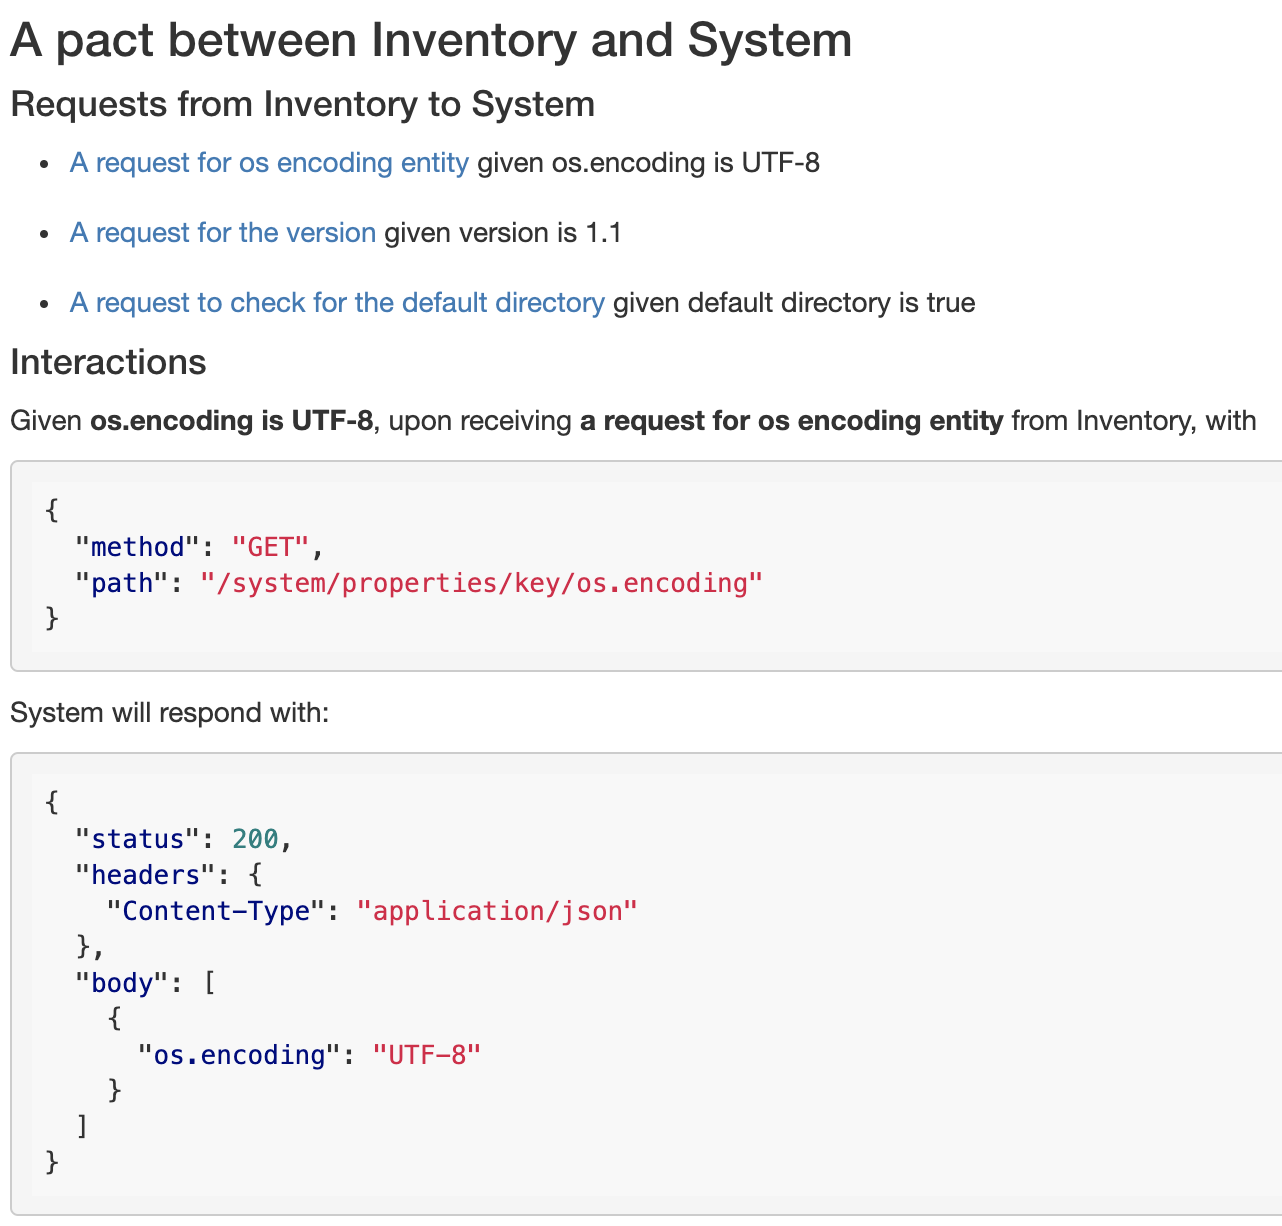
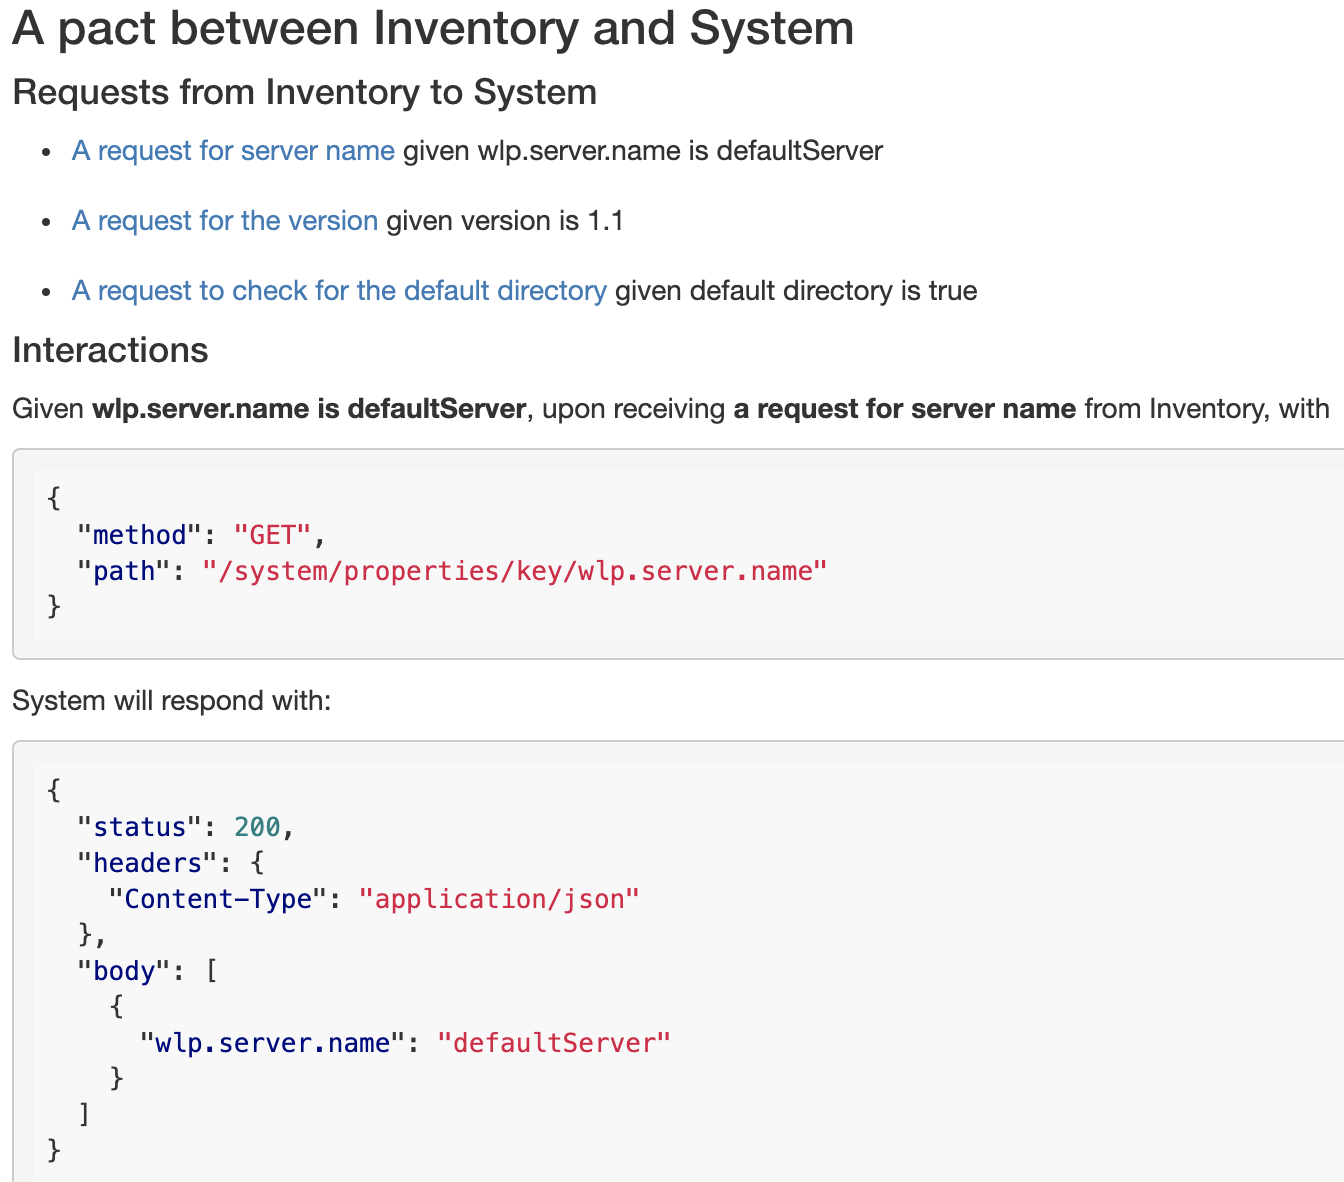
address peer review feedback (#5)
address peer review

diff --git a/finish/inventory/src/test/java/io/openliberty/guides/inventory/InventoryPactIT.java b/finish/inventory/src/test/java/io/openliberty/guides/inventory/InventoryPactIT.java
@@ -37,22 +37,22 @@ public class InventoryPactIT {
     @Pact(consumer = "Inventory")
     // end::pact[]
     // tag::builder[]
-    public RequestResponsePact createPactEncoding(PactDslWithProvider builder) {
+    public RequestResponsePact createPactServer(PactDslWithProvider builder) {
         Map<String, String> headers = new HashMap<String, String>();
         headers.put("Content-Type", "application/json");
 
         return builder
                 // tag::given[]
-                .given("os.encoding is UTF-8")
+                .given("wlp.server.name is defaultServer")
                 // end::given[]
-                .uponReceiving("a request for os encoding entity")
-                .path("/system/properties/key/os.encoding")
+                .uponReceiving("a request for server name")
+                .path("/system/properties/key/wlp.server.name")
                 .method("GET")
                 .willRespondWith()
                 .headers(headers)
                 .status(200)
                 .body(new PactDslJsonArray().object()
-                        .stringValue("os.encoding", "UTF-8"))
+                        .stringValue("wlp.server.name", "defaultServer"))
                 .toPact();
     }
     // end::builder[]
@@ -94,15 +94,15 @@ public class InventoryPactIT {
 
     @Test
     // tag::verification[]
-    @PactVerification(value = "System", fragment = "createPactEncoding")
+    @PactVerification(value = "System", fragment = "createPactServer")
     // end::verification[]
-    public void runEncodingTest() {
+    public void runServerTest() {
         // tag::mockTest[]
-        String encoding = new Inventory(mockProvider.getUrl()).getEncoding();
+        String serverName = new Inventory(mockProvider.getUrl()).getServerName();
         // end::mockTest[]
         // tag::unitTest[]
-        assertEquals("Expected encoding does not match",
-                     "[{\"os.encoding\":\"UTF-8\"}]", encoding);
+        assertEquals("Expected server name does not match",
+                     "[{\"wlp.server.name\":\"defaultServer\"}]", serverName);
         // end::unitTest[]
     }
 

diff --git a/finish/inventory/src/main/java/io/openliberty/guides/inventory/Inventory.java b/finish/inventory/src/main/java/io/openliberty/guides/inventory/Inventory.java
@@ -24,9 +24,9 @@ public class Inventory {
         this.url = url;
     }
 
-    public String getEncoding() {
+    public String getServerName() {
         Client client = ClientBuilder.newClient();
-        Response response = client.target(url + "/system/properties/key/os.encoding").request().get();
+        Response response = client.target(url + "/system/properties/key/wlp.server.name").request().get();
         String result = response.readEntity(String.class);
         response.close();
         client.close();

diff --git a/start/inventory/src/main/java/io/openliberty/guides/inventory/Inventory.java b/start/inventory/src/main/java/io/openliberty/guides/inventory/Inventory.java
@@ -24,9 +24,9 @@ public class Inventory {
         this.url = url;
     }
 
-    public String getEncoding() {
+    public String getServerName() {
         Client client = ClientBuilder.newClient();
-        Response response = client.target(url + "/system/properties/key/os.encoding").request().get();
+        Response response = client.target(url + "/system/properties/key/wlp.server.name").request().get();
         String result = response.readEntity(String.class);
         response.close();
         client.close();

diff --git a/finish/system/src/test/java/it/io/openliberty/guides/system/SystemBrokerIT.java b/finish/system/src/test/java/it/io/openliberty/guides/system/SystemBrokerIT.java
@@ -60,9 +60,9 @@ public class SystemBrokerIT {
   }
 
   // tag::state[]
-  @State("os.encoding is UTF-8")
+  @State("wlp.server.name is defaultServer")
   // end::state[]
-  public void validEncoding() {
+  public void validServerName() {
   }
 
   @State("Default directory is true")
